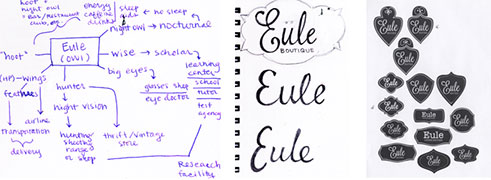
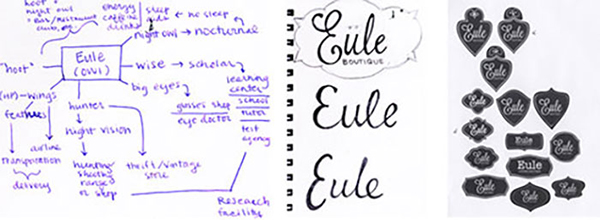
8.29

diff --git a/unit_9/eule.html b/unit_9/eule.html
@@ -9,17 +9,27 @@
 <body>
 	<section id="two_column" class="clearfix">
 		<nav id="left">
-			<img title="Krista Adkins" src="images/logo.png">
+			<a href="index.html"><img title="Krista Adkins" src="images/logo.png"></a>
 			<ul>
-				<li><a href="#">Work</a></li>
+				<li><a href="eule.html">Work</a></li>
 				<li><a href="#">About</a></li>
 				<li><a href="mailto:kristaadkins6@gmail.com">Contact</a></li>
 			</ul>
 		</nav>
-		<header id="eule">
+		<header id="right_work">
 			<h1>EULE BOUTIQUE</h1>
 			<p><a href="#">Logo &amp; Identity</a></p>
-			<p>For this project I developed an identity system for a company I made up, based on the word &#8216;Eule,&#8217; meaning owl in German. After the initial research phase I decided to create Eule Boutique, a vintage thrift shop. I established a target audience and began building the branding and identity for my company. My final designs include a logo, stationary, clothing tags and tote bags for the boutique.</p>
+			<div id="right_description">
+			<p>For this project I developed an identity system for a company I made up, based on the word &#8216;Eule,&#8217; meaning owl in German. After the initial research phase I decided to create Eule Boutique, a vintage thrift shop. I established a target audience and began building the branding and identity for my company. My final designs include a logo, stationary, clothing tags and tote bags for the boutique.
+			</p>
+			</div>
+			<div id="eule_images">
+				<img title="sketches" src="images/Eule/euleSketches.jpg">
+				<img title="crest" src="images/Eule/crest.jpg">
+				<img title="stationary" src="images/Eule/stationary.jpg">
+				<img title="tote" src="images/Eule/tote.jpg">
+				<div id="tags"><img title="tags" src="images/Eule/tags.jpg"></div>
+			</div>
 		</header>
 	</section>
 	<footer>

diff --git a/unit_9/css/style.css b/unit_9/css/style.css
@@ -92,14 +92,29 @@ section {
 	min-height: 500px;
 }
 
-#right h1{
+#right h1 {
 	color: #fff;
 	margin: 25px 0px;
 }
 
-#right a{
+#right a {
 	border-top: 1px #95d2df solid;
 	padding: 10px 0px;
+}
+
+#right_work {
+	padding-top:40px;
+	float: right;
+	width: 77%;
+}
+
+#right_work a {
+	border-top: 1px #95d2df solid;
+	padding: 10px 0px;
+}
+
+#right_description p {
+	padding: 40px;
 }
 
 #social-media img {
@@ -112,6 +127,16 @@ section {
 	margin: 25px 0px;
 }
 
+#tags img{
+	width: 321px;
+}
+
+#eule_images {
+	padding: 30px 20px;
+	max-width: 600px;
+	margin: auto;
+}
+
 .clearfix:after {
 	visibility: hidden;
     display: block;
@@ -121,8 +146,9 @@ section {
     height: 0;
 }
 
+
 @media (max-width: 1300px) {
-  #right {
+  #right, #right_work {
 	max-width: 70%;
   }
 }
@@ -151,6 +177,12 @@ section {
 	text-align: center;
   }
   #right {
+  	float: none;
+  	min-width: 100%;
+  }
+
+  #right_work {
+  	border-top: 1px solid #f3f3f3;
   	float: none;
   	min-width: 100%;
   }

diff --git a/unit_9/index.html b/unit_9/index.html
@@ -11,9 +11,9 @@
 		<nav id="left">
 			<img title="Krista Adkins" src="images/logo.png">
 			<ul>
-				<li><a href="#">Work</a></li>
+				<li><a href="eule.html">Work</a></li>
 				<li><a href="#">About</a></li>
-				<li><a href="#">Contact</a></li>
+				<li><a href="mailto:kristaadkins6@gmail.com">Contact</a></li>
 			</ul>
 		</nav>
 		<header id="right">
@@ -25,10 +25,10 @@
 		<h1>Check Out My Work</h1>
 		<p>The types of projects I work on include web design, print design and illustration.</p>
 		<div id="work-thumbnails">
+			<a href="eule.html"><img title="Eule Branding" src="images/euleThumb.jpg"></a>
 			<a href="#"><img title="John Thackara Poster Series" src="images/thackaraThumb.jpg"></a>
 			<a href="#"><img title="Loafer's Manifesto Campaign" src="images/loaferThumb.jpg"></a>
 			<a href="#"><img title="Up Magazine" src="images/upThumb.jpg"></a>
-			<a href="#"><img title="Eule Branding" src="images/euleThumb.jpg"></a>
 		</div>
 	</main>
 	<section>
